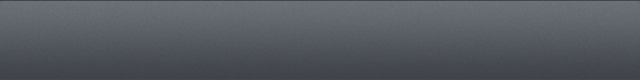
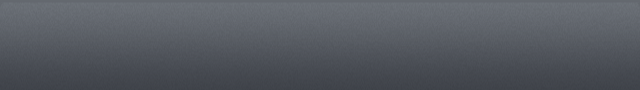
change tabbar height

Changed region(s): [[0.0, 0.0, 1.0, 0.025]]

diff --git a/iMedia/AppDelegate.m b/iMedia/AppDelegate.m
@@ -90,13 +90,12 @@ static const int ddLogLevel = LOG_LEVEL_INFO;
     } else {
         DDLogVerbose(@"%@: %@ multiple ME instance", THIS_FILE, THIS_METHOD);
     }
-
         
-    // global style 
+    // Global UINavigationBar style 
     [[UIApplication sharedApplication] setStatusBarStyle:UIStatusBarStyleBlackOpaque animated:NO];
     [[UINavigationBar appearance] setBackgroundImage:[UIImage imageNamed:@"navigationBar_bg.png"] forBarMetrics:UIBarMetricsDefault];
-    [[UINavigationBar appearance] setTintColor:[UIColor colorWithRed:59.0 green:64.0 blue:72.0 alpha:1.0]];
-    
+    [[UINavigationBar appearance] setTintColor:[UIColor colorWithRed:69/255 green:72/255 blue:76/255 alpha:1.0] ];
+
     return YES;
 }
 
@@ -141,7 +140,7 @@ static const int ddLogLevel = LOG_LEVEL_INFO;
     NSArray* controllers = [NSArray arrayWithObjects:navController, navController2, navController3, navController4, nil];
     self.tabController.viewControllers = controllers;
     // tabtar style 
-    [self.tabController.tabBar setFrame:CGRectMake(0, 440.0, 320.0, 40.0)];
+    [self.tabController.tabBar setFrame:CGRectMake(0, 435.0, 320.0, 45.0)];
     UIImageView *tabbarBgView  = [[UIImageView alloc] initWithImage:[UIImage imageNamed:@"tabbar_bg.png"]];
     [self.tabController.tabBar insertSubview:tabbarBgView atIndex:1];
     [self.tabController.tabBar setTintColor:[UIColor grayColor]];
